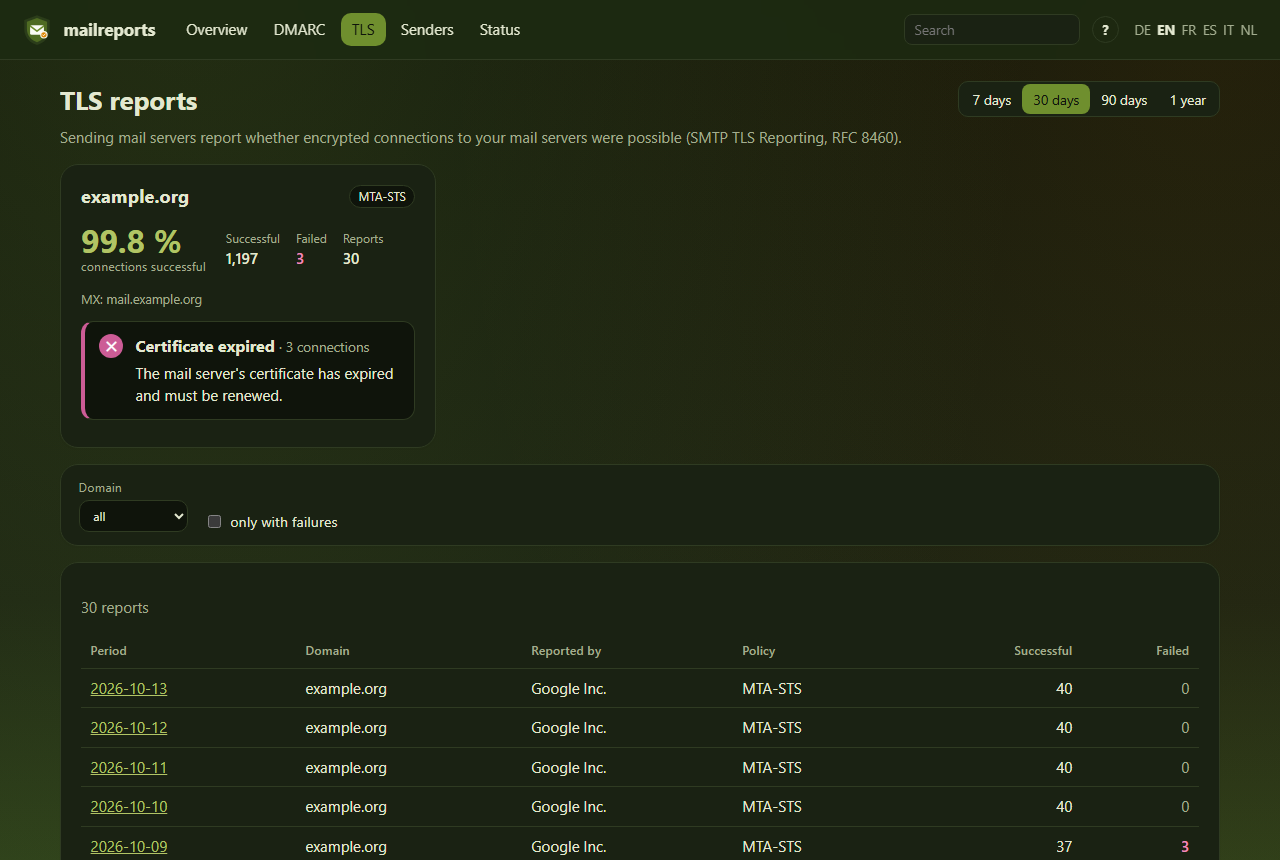
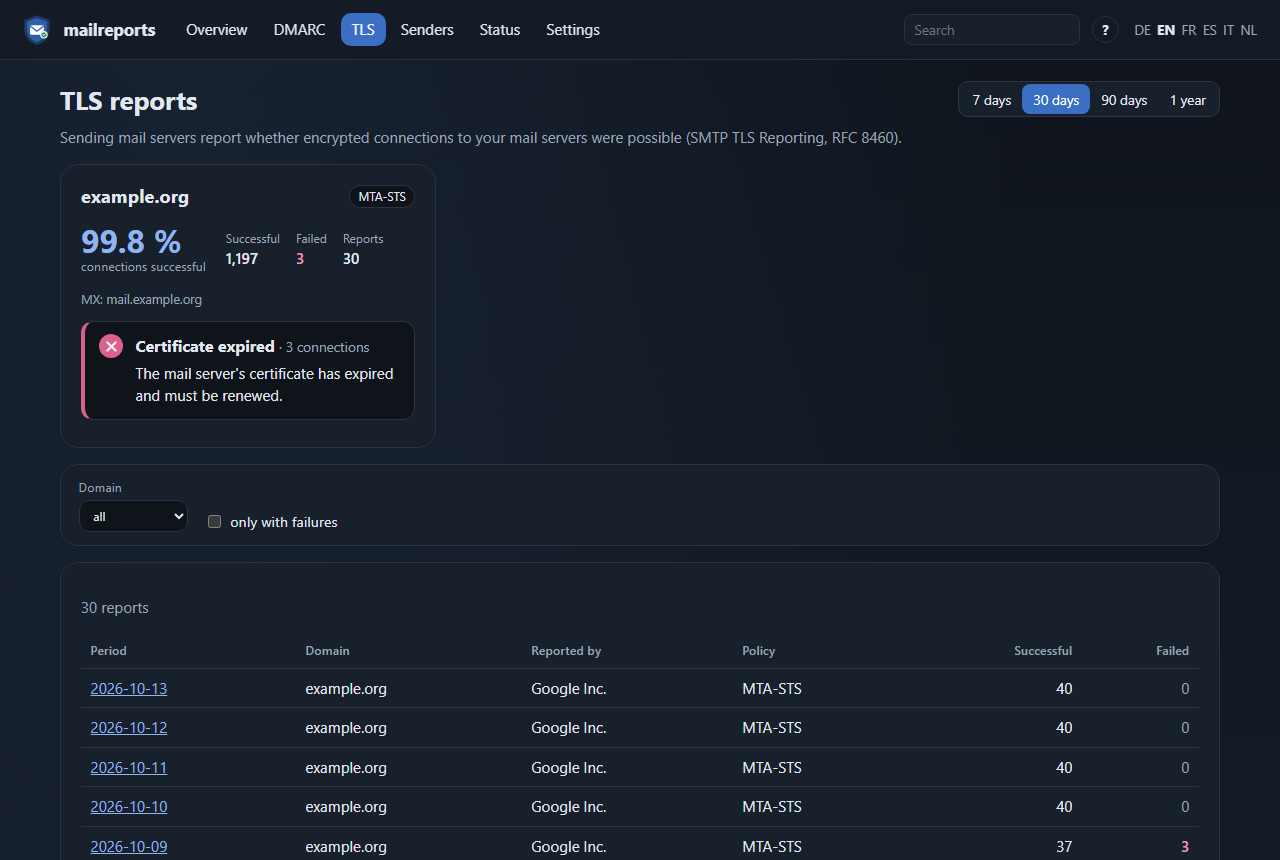
Neutral design by default, olive green with THEME=olive

diff --git a/mailreports/static/style.css b/mailreports/static/style.css
@@ -1,5 +1,58 @@
 /* SPDX-License-Identifier: AGPL-3.0-or-later */
 :root {
+  --bg: #f3f5f8;
+  --card: #ffffff;
+  --line: #dde3ea;
+  --text: #1b2330;
+  --muted: #5b6676;
+  --accent: #2f5fa8;
+  --accent-2: #4a7cc7;
+  --btn: #1f3a64;
+  --btn-text: #ffffff;
+  --btn-hover: #2f6fd0;
+  --header: rgba(243, 245, 248, .8);
+  --ok: #3567b5;           /* chart: passed  */
+  --bad: #d14d72;          /* chart: failed  */
+  --bad-text: #a8325f;
+  --warn: #a86400;
+  --good-bg: #e3f0e8;
+  --warn-bg: #fbecd0;
+  --bad-bg: #f9e0e8;
+  --code-bg: #eef1f5;
+  --bg-image:
+    radial-gradient(ellipse at 15% -10%, rgba(59, 116, 209, .10), transparent 55%),
+    linear-gradient(180deg, #f5f7fa 0%, #e8ecf1 100%);
+  color-scheme: light;
+}
+@media (prefers-color-scheme: dark) {
+  :root {
+    --bg: #0f141b;
+    --card: #18202b;
+    --line: #2a3442;
+    --text: #e2e8f0;
+    --muted: #9aa6b6;
+    --accent: #8fb4ef;
+    --accent-2: #8fb4ef;
+    --btn: #3b6fc4;
+    --btn-text: #ffffff;
+    --btn-hover: #5b8be0;
+    --header: rgba(20, 27, 36, .85);
+    --ok: #5b8fd9;
+    --bad: #d9628a;
+    --bad-text: #f19ab8;
+    --warn: #f0b04a;
+    --good-bg: #1d2e26;
+    --warn-bg: #3a2c12;
+    --bad-bg: #3a1c28;
+    --code-bg: #0f141b;
+    --bg-image:
+      radial-gradient(ellipse at 15% -10%, rgba(91, 139, 224, .12), transparent 55%),
+      linear-gradient(180deg, #0f141b 0%, #141b25 100%);
+    color-scheme: dark;
+  }
+}
+/* THEME=olive */
+:root[data-theme="olive"] {
   --bg: #eef2dc;
   --card: #fbfcf4;
   --line: #d9e2b8;
@@ -26,7 +79,7 @@
   color-scheme: light;
 }
 @media (prefers-color-scheme: dark) {
-  :root {
+  :root[data-theme="olive"] {
     --bg: #0f140b;
     --card: #1a2213;
     --line: #2f3b22;
@@ -36,6 +89,7 @@
     --accent-2: #b1c465;
     --btn: #6f8f2e;
     --btn-text: #0f140b;
+    --btn-hover: #dd8706;
     --header: rgba(28, 42, 18, .85);
     --ok: #869c3e;
     --bad: #cc5c96;
@@ -52,6 +106,7 @@
     color-scheme: dark;
   }
 }
+
 
 * { box-sizing: border-box; }
 html { background: var(--bg); }
@@ -112,7 +167,7 @@ h4 { margin: 1rem 0 .35rem; font-size: .9rem; color: var(--muted); }
   border-radius: 18px;
   padding: 1.1rem 1.25rem;
   margin-bottom: 1rem;
-  box-shadow: 0 1px 2px rgba(31, 38, 24, .05);
+  box-shadow: 0 1px 2px rgba(0, 0, 0, .05);
 }
 .card-head { display: flex; justify-content: space-between; align-items: baseline; gap: 1rem; flex-wrap: wrap; margin-bottom: .75rem; }
 .card-head h2 { margin: 0; }

diff --git a/mailreports/templates/base.html b/mailreports/templates/base.html
@@ -1,10 +1,10 @@
 <!doctype html>
-<html lang="{{ current_language() }}">
+<html lang="{{ current_language() }}"{% if theme != "neutral" %} data-theme="{{ theme }}"{% endif %}>
 <head>
 <meta charset="utf-8">
 <meta name="viewport" content="width=device-width, initial-scale=1">
 <title>{% block title %}{% endblock %} · {{ app_title or "mailreports" }}</title>
-<link rel="icon" href="{{ logo_url or '/static/icon.svg' }}">
+<link rel="icon" href="{{ logo_url }}">
 <link rel="stylesheet" href="/static/style.css?v={{ version }}">
 <script src="/static/app.js?v={{ version }}" defer></script>
 <script src="/static/passkeys.js?v={{ version }}" defer></script>
@@ -12,7 +12,7 @@
 <body>
 <header class="top">
   <a class="brand" href="/">
-    <img src="{{ logo_url or '/static/icon.svg' }}" alt="" width="34" height="34">
+    <img src="{{ logo_url }}" alt="" width="34" height="34">
     <span>{{ app_title or "mailreports" }}</span>
   </a>
   <button class="menu-toggle" type="button" aria-expanded="false" aria-controls="menu" aria-label="{{ _('Menü') }}">

diff --git a/mailreports/config.py b/mailreports/config.py
@@ -119,6 +119,7 @@ class Settings:
     # Appearance
     app_title: str = ""
     logo_url: str = ""
+    theme: str = "neutral"            # neutral or olive
     default_language: str = ""
     domains: list[str] = field(default_factory=list)
     source_url: str = "https://github.com/Schnuecks/mailreports"
@@ -157,6 +158,16 @@ class Settings:
 
 
 WEEKDAYS = ("mon", "tue", "wed", "thu", "fri", "sat", "sun")
+
+
+THEMES = ("neutral", "olive")
+
+
+def _theme(value: str) -> str:
+    value = (value or "neutral").strip().lower()
+    if value not in THEMES:
+        raise SystemExit("THEME must be neutral or olive")
+    return value
 
 
 def _weekday(value: str) -> int:
@@ -239,6 +250,7 @@ def load() -> Settings:
         trusted_proxies=_networks(env_list("TRUSTED_PROXIES")),
         app_title=env("APP_TITLE"),
         logo_url=env("LOGO_URL"),
+        theme=_theme(env("THEME", "neutral")),
         default_language=env("DEFAULT_LANGUAGE").lower(),
         domains=[d.lower() for d in env_list("DOMAINS")],
         source_url=env("SOURCE_URL", "https://github.com/Schnuecks/mailreports"),

diff --git a/tests/test_config.py b/tests/test_config.py
@@ -38,3 +38,22 @@ def test_warns_about_wide_trusted_network(tmp_path, caplog):
     caplog.clear()
     Service(make_settings(tmp_path, trusted_proxies=[ipaddress.ip_network("172.20.1.1/32")]))
     assert "whole network" not in caplog.text
+
+
+def test_theme(monkeypatch, tmp_path):
+    from fastapi.testclient import TestClient
+
+    from mailreports.main import create_app
+    from mailreports.service import Service
+    from tests.conftest import make_settings
+    monkeypatch.setenv("THEME", "Olive")
+    assert config.load().theme == "olive"
+    monkeypatch.setenv("THEME", "pink")
+    with pytest.raises(SystemExit):
+        config.load()
+    (tmp_path / "a").mkdir()
+    (tmp_path / "b").mkdir()
+    html = TestClient(create_app(Service(make_settings(tmp_path / "a", theme="olive")))).get("/").text
+    assert 'data-theme="olive"' in html and "/static/icon-olive.svg" in html
+    html = TestClient(create_app(Service(make_settings(tmp_path / "b")))).get("/").text
+    assert "data-theme" not in html and 'src="/static/icon.svg"' in html

diff --git a/mailreports/web.py b/mailreports/web.py
@@ -115,7 +115,9 @@ def setup(service) -> None:
     env.globals.update(
         _=i18n.gettext, ngettext=i18n.ngettext, fmt=fmt, num=fmt_number, pct=fmt_pct,
         bar_chart=bar_chart, loads=loads, ex=explain, version=__version__,
-        app_title=s.app_title, logo_url=s.logo_url, source_url=s.source_url, languages=i18n.LANGUAGES,
+        app_title=s.app_title, theme=s.theme,
+        logo_url=s.logo_url or ("/static/icon-olive.svg" if s.theme == "olive" else "/static/icon.svg"),
+        source_url=s.source_url, languages=i18n.LANGUAGES,
         current_language=i18n.current,
     )
     service.tz = tz

diff --git a/README.md b/README.md
@@ -54,8 +54,8 @@ XML and result codes.
 - **Secrets from files** (`IMAP_PASSWORD_FILE`, `PUSHOVER_TOKEN_FILE`, …) for Docker secrets
 - **Upload and import** of older report files, **help pages** on SPF, DKIM, DMARC, alignment
   and TLS reporting
-- **Six languages** (English, German, French, Spanish, Italian, Dutch), light and dark theme,
-  works on phones
+- **Six languages** (English, German, French, Spanish, Italian, Dutch), light and dark theme
+  (neutral or olive green), works on phones
 - **Small and easy to run:** one container, one SQLite file, runs as a non-root user with a
   read-only file system and a built-in health check
 

diff --git a/docs/en/configuration.md b/docs/en/configuration.md
@@ -28,6 +28,7 @@ A report that is already stored (same organisation and report ID) counts as a du
 | Variable | Default | Meaning |
 |---|---|---|
 | `APP_TITLE` | `mailreports` | Name in the header and the browser tab |
+| `THEME` | neutral | Colour scheme: `neutral` (grey and blue) or `olive` (olive green); light and dark follow the device |
 | `LOGO_URL` | built-in icon | Logo (34 px in the header) and favicon, e.g. an HTTPS URL |
 | `DEFAULT_LANGUAGE` | browser language | `de`, `en`, `fr`, `es`, `it` or `nl` |
 | `DOMAINS` | all | Comma-separated: which domains the overview shows, in this order |

diff --git a/docs/de/configuration.md b/docs/de/configuration.md
@@ -29,6 +29,7 @@ zählt als doppelt.
 | Variable | Standard | Bedeutung |
 |---|---|---|
 | `APP_TITLE` | `mailreports` | Name in der Kopfleiste und im Browser-Tab |
+| `THEME` | neutral | Farbschema: `neutral` (Grau und Blau) oder `olive` (Olivgrün); hell und dunkel richten sich nach dem Gerät |
 | `LOGO_URL` | eingebautes Symbol | Logo (34 px in der Kopfleiste) und Favicon, z. B. eine HTTPS-Adresse |
 | `DEFAULT_LANGUAGE` | Browsersprache | `de`, `en`, `fr`, `es`, `it` oder `nl` |
 | `DOMAINS` | alle | Kommagetrennt: welche Domains die Übersicht zeigt, in dieser Reihenfolge |

diff --git a/README.de.md b/README.de.md
@@ -58,7 +58,7 @@ haben – statt XML und Fehlercodes.
 - **Hochladen und Importieren** älterer Berichtsdateien, **Hilfeseiten** zu SPF, DKIM,
   DMARC, Ausrichtung und TLS-Reporting
 - **Sechs Sprachen** (Deutsch, Englisch, Französisch, Spanisch, Italienisch, Niederländisch),
-  helles und dunkles Design, auch fürs Handy
+  helles und dunkles Design (neutral oder Olivgrün), auch fürs Handy
 - **Klein und einfach zu betreiben:** ein Container, eine SQLite-Datei, läuft ohne
   Root-Rechte mit schreibgeschütztem Dateisystem und eingebautem Healthcheck
 

diff --git a/CHANGELOG.md b/CHANGELOG.md
@@ -2,6 +2,13 @@
 
 All notable changes are listed here. Versions follow [Semantic Versioning](https://semver.org/).
 
+## Unreleased
+
+- **Neutral design by default** (grey and blue, light and dark); the olive green design is still
+  available with `THEME=olive`. Installations that want to keep the previous look set `THEME=olive`.
+- Chart colours checked for colour vision deficiencies (blue for passed, pink for failed)
+- Screenshots updated
+
 ## 0.4.0
 
 - **Settings page** for admins: set up Pushover, ntfy, webhook and email notifications, the
